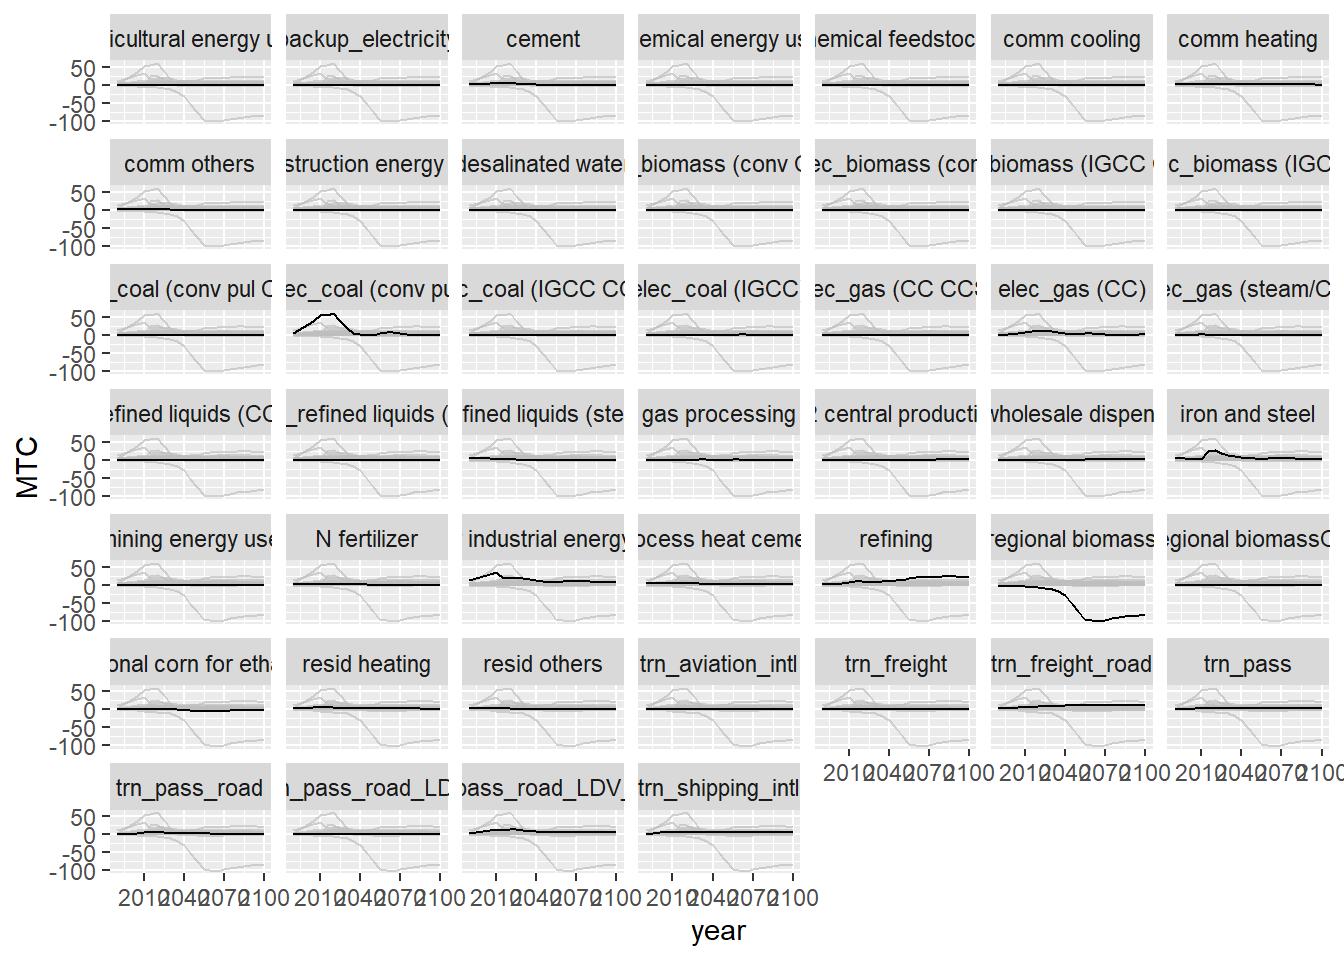
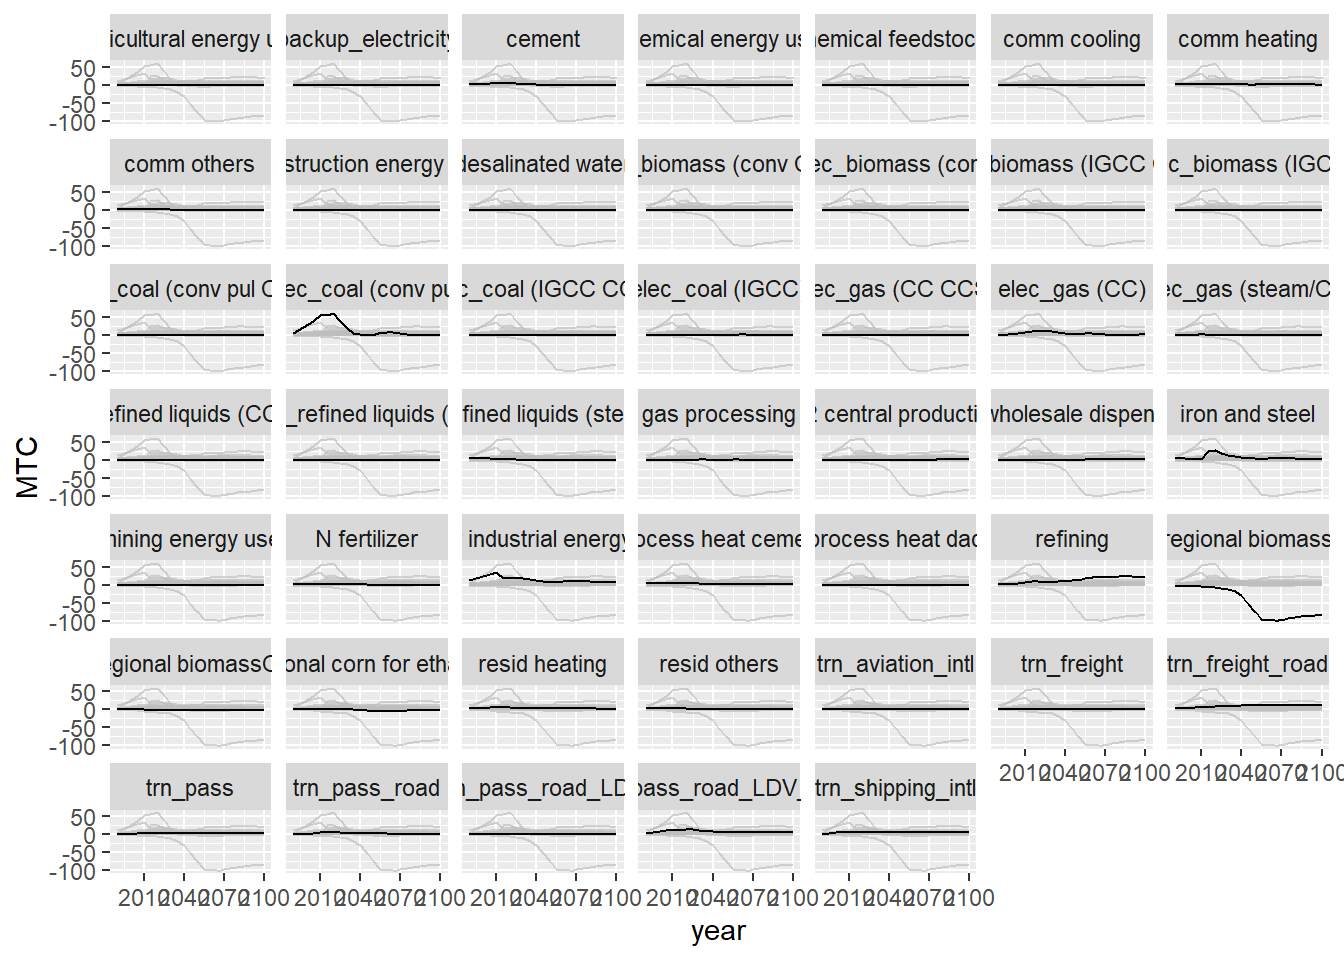
dac

diff --git a/docs/KAIST_IAM_GROUP.html b/docs/KAIST_IAM_GROUP.html
@@ -817,11 +817,12 @@ erorr message
 <span id="cb8-9"><a href="#cb8-9" aria-hidden="true" tabindex="-1"></a>    <span class="fu">mutate</span>( <span class="at">year =</span> <span class="fu">as.numeric</span>(year))</span>
 <span id="cb8-10"><a href="#cb8-10" aria-hidden="true" tabindex="-1"></a></span>
 <span id="cb8-11"><a href="#cb8-11" aria-hidden="true" tabindex="-1"></a>data_tidy <span class="sc">%&gt;%</span> </span>
-<span id="cb8-12"><a href="#cb8-12" aria-hidden="true" tabindex="-1"></a>    <span class="fu">filter</span>(query <span class="sc">==</span> <span class="st">"emission"</span> <span class="sc">&amp;</span> type <span class="sc">==</span><span class="st">"SSP2"</span>) <span class="sc">%&gt;%</span> </span>
-<span id="cb8-13"><a href="#cb8-13" aria-hidden="true" tabindex="-1"></a>    <span class="fu">ggplot</span>(<span class="fu">aes</span>(<span class="at">x=</span> year, <span class="at">y =</span> MTC, <span class="at">group =</span> sector))<span class="sc">+</span></span>
+<span id="cb8-12"><a href="#cb8-12" aria-hidden="true" tabindex="-1"></a>    <span class="fu">filter</span>(query <span class="sc">==</span> <span class="st">"emission"</span>) <span class="sc">%&gt;%</span> </span>
+<span id="cb8-13"><a href="#cb8-13" aria-hidden="true" tabindex="-1"></a>    <span class="fu">ggplot</span>(<span class="fu">aes</span>(<span class="at">x=</span> year, <span class="at">y =</span> MTC, <span class="at">group =</span> sector), <span class="at">color =</span> type)<span class="sc">+</span></span>
 <span id="cb8-14"><a href="#cb8-14" aria-hidden="true" tabindex="-1"></a>    <span class="fu">geom_line</span>()<span class="sc">+</span></span>
-<span id="cb8-15"><a href="#cb8-15" aria-hidden="true" tabindex="-1"></a>    <span class="fu">gghighlight</span>(<span class="at">unhighlighted_params =</span> )<span class="sc">+</span></span>
-<span id="cb8-16"><a href="#cb8-16" aria-hidden="true" tabindex="-1"></a>    <span class="fu">facet_wrap</span>(<span class="sc">~</span>sector)</span></code><button title="Copy to Clipboard" class="code-copy-button"><i class="bi"></i></button></pre></div>
+<span id="cb8-15"><a href="#cb8-15" aria-hidden="true" tabindex="-1"></a>    <span class="fu">gghighlight</span>()<span class="sc">+</span></span>
+<span id="cb8-16"><a href="#cb8-16" aria-hidden="true" tabindex="-1"></a>    <span class="fu">facet_wrap</span>(<span class="sc">~</span>sector)<span class="sc">+</span></span>
+<span id="cb8-17"><a href="#cb8-17" aria-hidden="true" tabindex="-1"></a>    <span class="fu">labs</span>(title)</span></code><button title="Copy to Clipboard" class="code-copy-button"><i class="bi"></i></button></pre></div>
 </details>
 <div class="cell-output cell-output-stderr">
 <pre><code>label_key: sector
